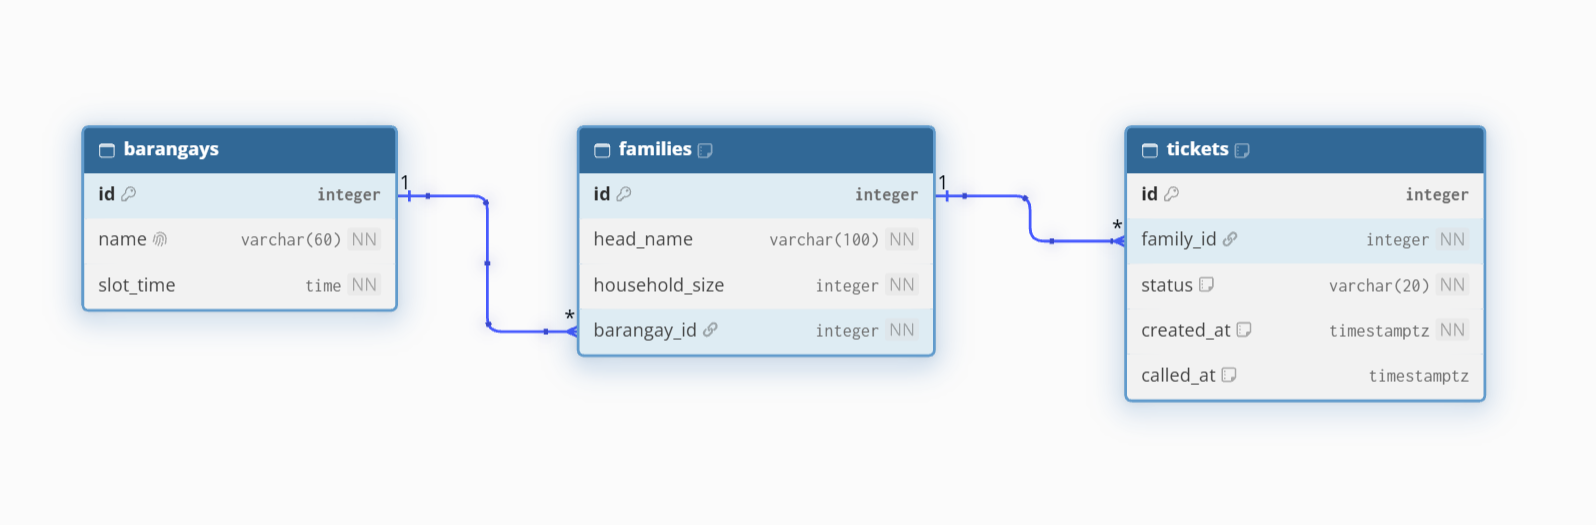
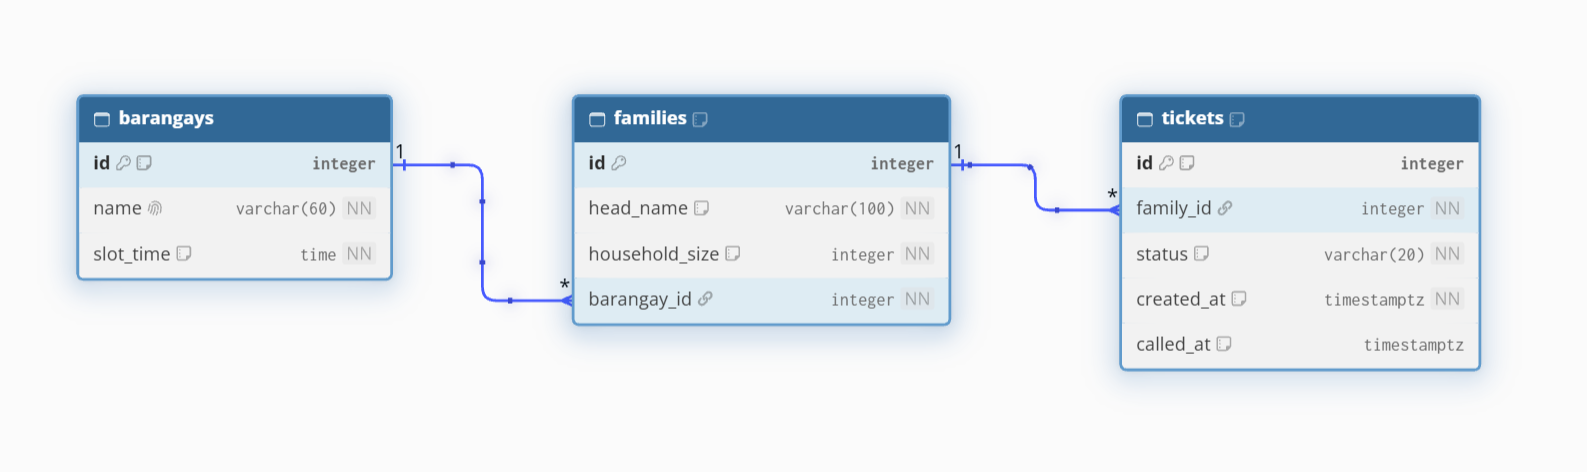
Add schema-review.md and update the schema.md (#3)

diff --git a/docs/week4/schema.md b/docs/week4/schema.md
@@ -3,17 +3,17 @@
 ## 2a. Find the nouns in your requirements
 
 | ID | Requirement | Nouns | Table or column? |
-| --- | --- | --- | --- | 
-| FR-01 | A **family** can join the **queue** by entering the **head of the family's name**, the **number of family members**, and their **barangay** with its **time slot**. | family, queue, head of the family's name, number of family members, barangay, time slot | families, (not a table), families.head_name, families.household_size, barangays, barangays.slot_time | 
-| FR-02 | A family can see their **ticket number**, **status**, and how many families/people are **ahead** of them. | ticket, number, status, ahead | tickets.id, ticket.status (computed) | 
-| FR-03 | A family can see their **status** change within 10 seconds without reloading the page. | status | ticket.status (the page reads it again) | 
-| FR-04 | A **staff member** can call the next **waiting family** for a **barangay** | staff member, waiting family, barangay | (no table yet, there is no login), ticket.status = waiting,barangay |
-| FR-05 | A staff member can mark a **called family** as **received or no-show** | called family, received, no-show | ticket.status = received or no-show |  
-| FR-06 | A family can **leave the queue** before they receive their goods |  leave | ticket.status = left |
-| FR-07 ★ | A staff member can see which families **already received** goods, so that no family gets goods twice. | received families | ticket.status = received (the ticket is kept, not deleted) | 
-| FR-10 ★ | A staff member can see how many families are **waiting** in each barangay.  | count of waiting | (computed with COUNT) | 
-| FR-12  | A **senior citizen** or a **person with disability** can join a **priority lane** that is served first. | priority lane | ticket.is_priority (a later task, status Later) |
-| FR-13 ★ | A family cannot join the queue again while they still have a **waiting or called ticket** in the same barangay. | open ticket | tickets.family_id | 
+| --- | --- | --- | --- |
+| FR-01 | A **family** can join the **queue** by entering the **head of the family's name**, the **number of family members**, and their **barangay** with its **time slot**. | family, queue, head of the family's name, number of family members, barangay, time slot | families, (not a table), families.head_name, families.household_size, barangays, barangays.slot_time |
+| FR-02 | A family can see their **ticket number**, **status**, and how many families/people are **ahead** of them. | ticket, number, status, ahead | tickets.id, tickets.status, ahead = computed (not stored) from tickets.created_at, tickets.status, and families.household_size |
+| FR-03 | A family can see their **status** change within 10 seconds without reloading the page. | status | tickets.status (the page reads it again) |
+| FR-04 | A **staff member** can call the next **waiting family** for a **barangay**. | staff member, waiting family, barangay | (no table yet, there is no login), tickets.status = waiting, the barangay is found through families.barangay_id, the oldest created_at is called first |
+| FR-05 | A staff member can mark a **called family** as **received or no-show**. | called family, received, no-show | tickets.status = received or no-show |
+| FR-06 | A family can **leave the queue** before they receive their goods. | leave | tickets.status = left |
+| FR-07 ★ | A staff member can see which families **already received** goods, so that no family gets goods twice. | received families | tickets.status = received (the ticket is kept, not deleted) |
+| FR-10 ★ | A staff member can see how many families are **waiting** in each barangay. | count of waiting | (computed with COUNT) |
+| FR-12 | A **senior citizen** or a **person with disability** can join a **priority lane** that is served first. | priority lane | not in this schema. It would be tickets.is_priority in a later task (status Later) |
+| FR-13 ★ | A family cannot join the queue again while they still have a **waiting or called ticket** in the same barangay. | open ticket | partial UNIQUE index on tickets.family_id. A family belongs to one barangay, so one open ticket per family is the same as one per barangay |
 
 **Note:** Only requirements with "Stores data? = Yes" are listed. FR-09 is not listed because it only reads existing data and stores nothing new. FR-08 and FR-11 store data but were dropped and will not be built this semester.
 
@@ -23,7 +23,7 @@
 | --- | --- |
 | barangays | id, name, slot_time |
 | families | id, head_name, household_size, barangay_id |
-| tickets | id, family_id, status, created_at, called_at | 
+| tickets | id, family_id, status, created_at, called_at |
 
 ## 2c. Choose types and constraints on purpose
 
@@ -34,18 +34,27 @@
 | barangays | name | varchar(60) | NOT NULL, UNIQUE | Every barangay has one name, and no barangay appears twice |
 | barangays | slot_time | time | NOT NULL | The time of day when its families come, stored as a time, not text |
 | families | id | integer, generated | PRIMARY KEY | Generated by the database |
-| families | head_name | varchar(100) | NOT NULL, CHECK(length(trim(head_name))> 0) | A family must have a name, and a name of only spaces is rejected |
-| families | household_size | integer | NOT NULL, CHECK(household_size >= 1) | Rejects impossible values, and matches the form rule |
-| families | barangay_id | integer | NOT NULL, FOREIGN KEY REFERENCES barangays(id) | No family for a barangay that does not exist |
-| tickets | id | integer, generated | PRIMARY KEY | This is the ticket number. Two families can never get the same number (NFR-02). |
-| tickets | family_id | integer | NOT NULL, FOREIGN KEY REFERENCES families(id) | No ticket for a family that does not exist |
+| families | head_name | varchar(100) | NOT NULL, CHECK (length(trim(head_name)) > 0) | A family must have a name, and a name of only spaces is rejected |
+| families | household_size | integer | NOT NULL, CHECK (household_size >= 1) | A family has at least one member. There is no upper limit. |
+| families | barangay_id | integer | NOT NULL, FOREIGN KEY REFERENCES barangays(id) ON DELETE RESTRICT | No family for a barangay that does not exist, and a barangay with families cannot be deleted |
+| families | (barangay_id, head_name) | | UNIQUE | The same family is saved only once in one barangay. Without this, a family could get two rows and join the queue twice |
+| tickets | id | integer, generated | PRIMARY KEY | This is the ticket number. Two families can never get the same number |
+| tickets | family_id | integer | NOT NULL, FOREIGN KEY REFERENCES families(id) ON DELETE RESTRICT | No ticket for a family that does not exist, and a family with tickets cannot be deleted |
 | tickets | status | varchar(20) | NOT NULL, DEFAULT 'waiting', CHECK (status IN ('waiting', 'called', 'received', 'no-show', 'left')) | Only these five values are allowed |
 | tickets | created_at | timestamptz | NOT NULL, DEFAULT now() | Time zone safe, and set by the database when the family joins |
 | tickets | called_at | timestamptz | NULL allowed, CHECK (called_at IS NULL OR called_at >= created_at) | Empty until staff call the family, and it can never be before the ticket was created |
 | tickets | UNIQUE (family_id) WHERE status IN ('waiting', 'called') | | partial UNIQUE index | A family can have only one open ticket at a time |
-| tickets | UNIQUE (family_id) WHERE status = 'received' | | partial UNIQUE index | A family can receive goods only once, so a family that already received cannot get a second received ticket |
+| tickets | UNIQUE (family_id) WHERE status = 'received' | | partial UNIQUE index | A family can receive goods only once in this database, so a second received ticket is rejected |
 
-## 2d Draw the ERD
+**Note:**
+
+- **Same family** means the same full name of the head of the family in the same barangay. Flask fixes the capitalization before saving. If two different families still match, maybe staff add a short note to one name.
+- **Barangays are fixed.** They are added when the database is created.
+- **One distribution.** A family receives goods once.
+- **Join check.** Before joining, Flask checks that the family has not received goods and has no waiting or called ticket.
+- **Joining again.** A family with a no-show or left ticket reuses its saved families row and gets a new ticket.
+
+## 2d. Draw the ERD
 
 ![ERD](erd.png)
 

diff --git a/docs/week4/schema-review.md b/docs/week4/schema-review.md
@@ -1,0 +1,9 @@
+# Schema self-review
+
+1. **Works well:** Every requirement with Stores data? = Yes has a table or column in schema.md (2a): FR-01 to FR-07, FR-10, and FR-13 are covered, FR-12 is marked Later, and FR-08 and FR-11 were dropped. The family tasks (join, see my place) and the staff tasks (call the next family, mark received) all have the data they need. **Problem (question 1):** `tickets.called_at` is a column that no requirement needs. FR-04 only needs the status to change to "called". No requirement says to save the time when the family was called. **Change:** I kept it. It has a check so it can't be before `created_at`, and it can show how long a family waited after being called. I wrote this reason in schema.md (2c).
+
+2. **Works well:** Both foreign keys use RESTRICT, so deleting a barangay or a family never removes the ticket history. **Problem (question 2):** A family whose last ticket is no longer open (no-show or left) can join again. If Flask saved them as a new family, the same facts (name, size, barangay) would be in two rows. **Change:** I wrote in schema.md 2c notes that it finds the family that is already saved by `(barangay_id, head_name)` and only adds a new ticket.
+
+3. **Works well:** `tickets.id` is made by the database, so two families can never get the same ticket number. **Problem (question 4):** Nothing stopped one family from getting two rows in families. **Change:** I added `UNIQUE (barangay_id, head_name)` in schema.md (2c). To make clashes rare, the form will ask for the full name and use the same capitalization.
+
+4. **Works well:** I don't store the position in line. It is computed from `created_at`, `status`, and `household_size`, so nothing needs updating when a family joins or leaves. **Problem (question 4):** A family that already received goods could join the queue again. The database only stops it at the end, when staff mark the second ticket as received which is too late. **Change:** I kept the partial unique rule. I also wrote in schema.md that this database covers one distribution, and that Flask will check at joining time if the family already received.
